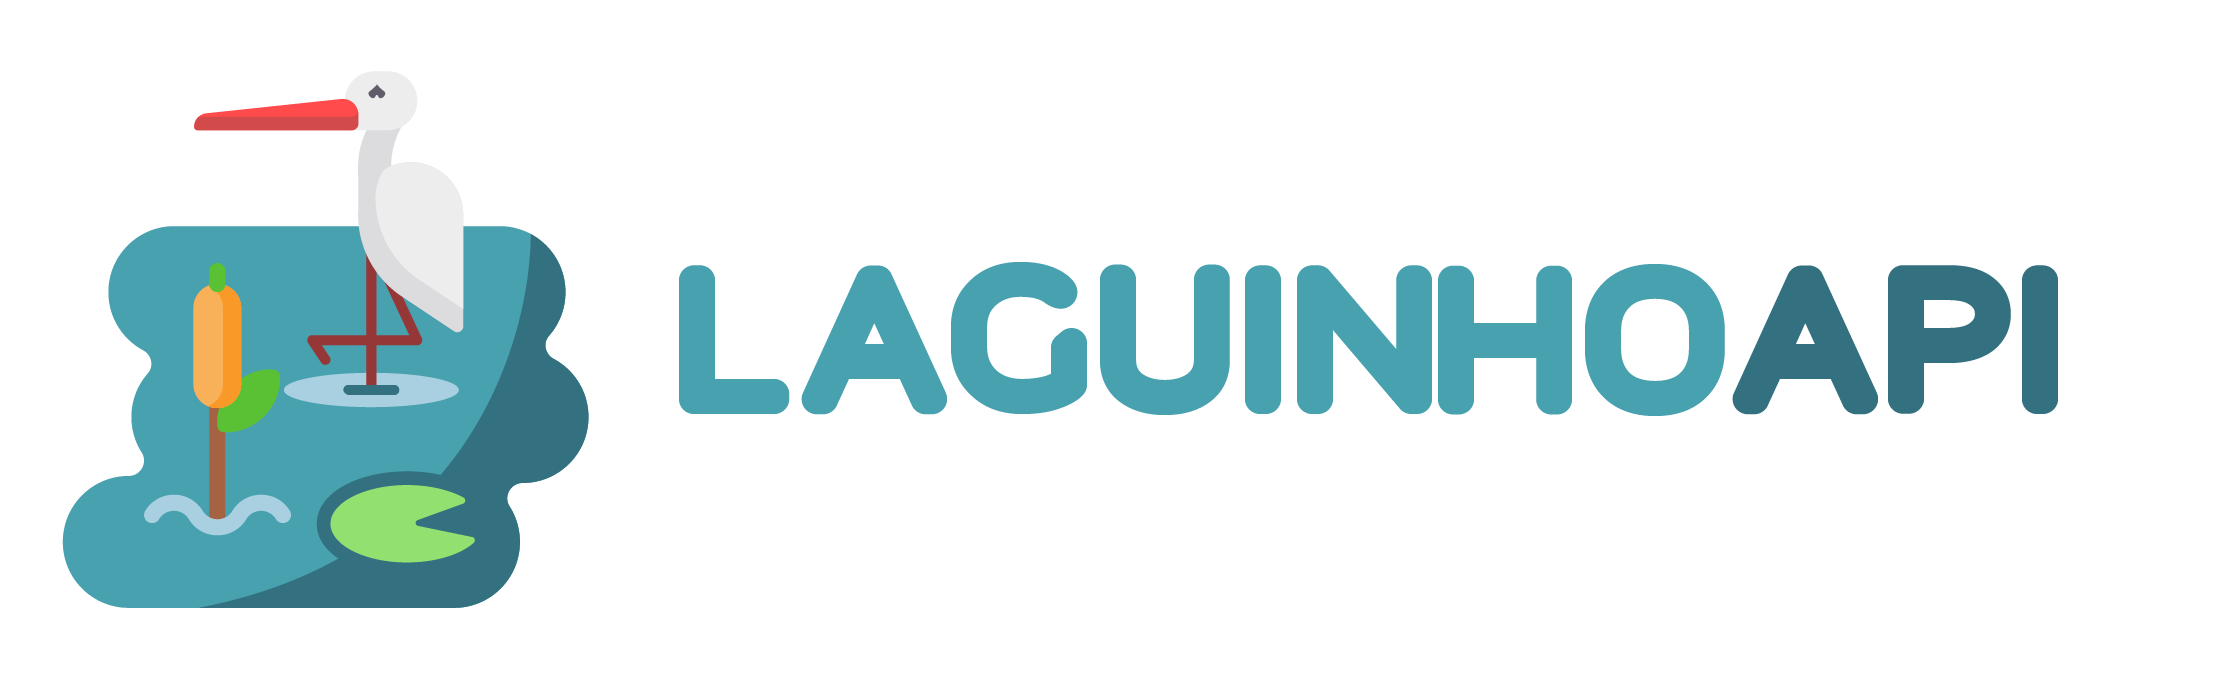
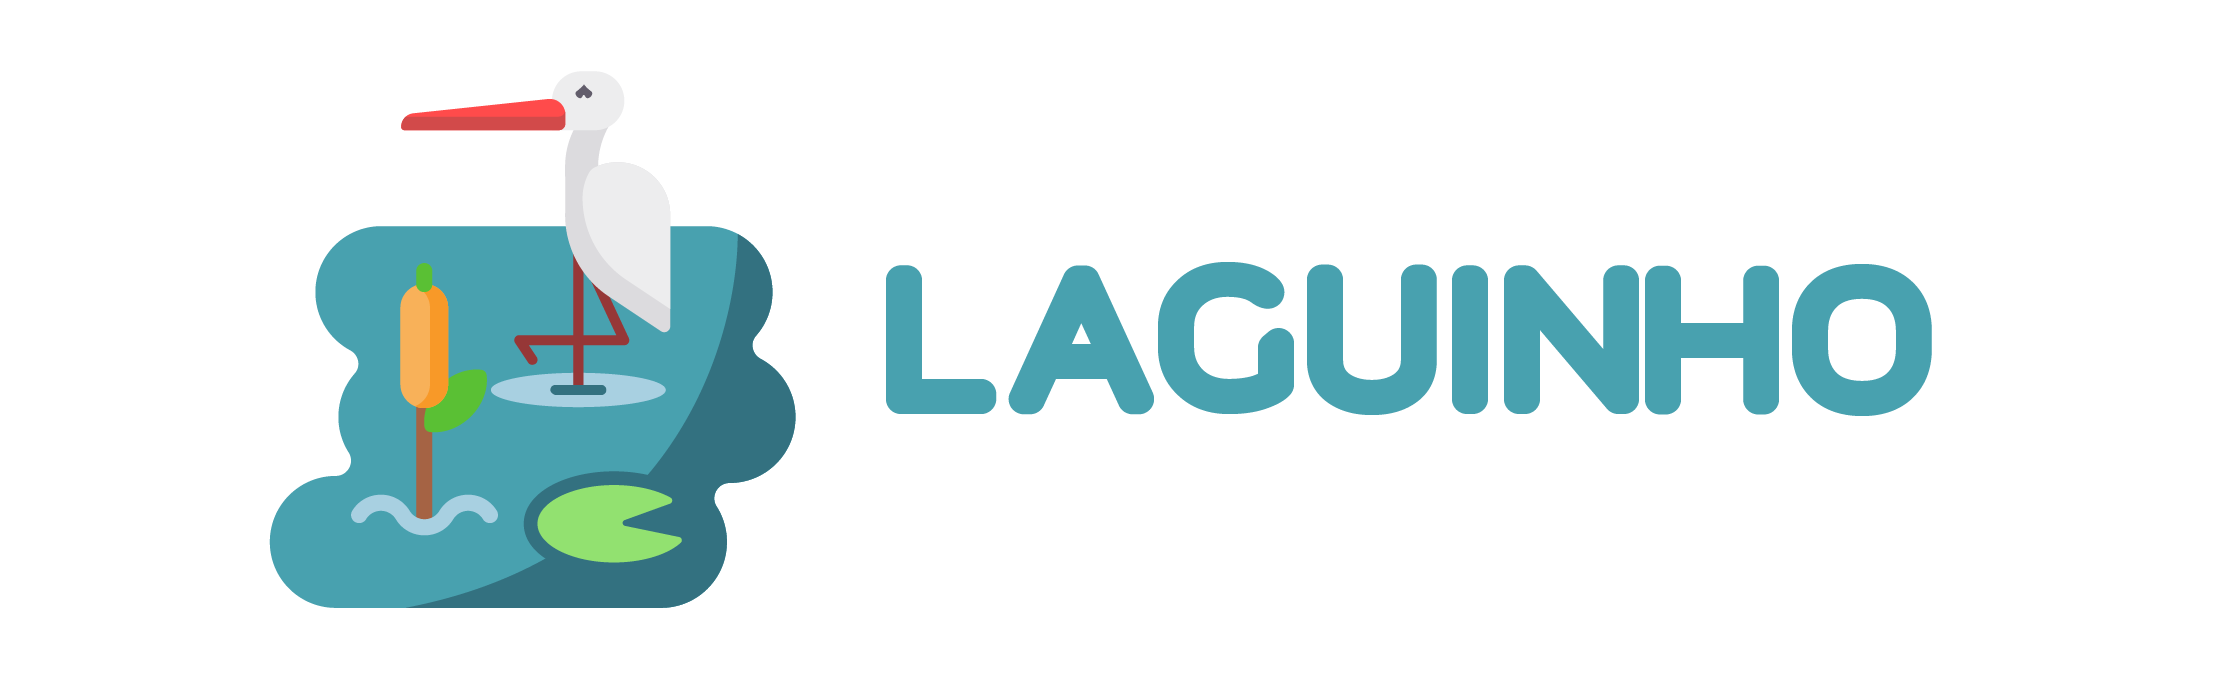
assets updated

Changed region(s): [[0.0308, 0.1237, 0.9245, 0.8969]]

diff --git a/README.md b/README.md
@@ -1,6 +1,6 @@
-# Laguinho API [![chat on Discord](https://img.shields.io/discord/558293573494112257.svg?logo=discord)](https://discord.gg/UgR5WrY)
+# Laguinho [![chat on Discord](https://img.shields.io/discord/558293573494112257.svg?logo=discord)](https://discord.gg/UgR5WrY)
 
-![LaguinhoAPI Logo](https://i.imgur.com/lgiZyDn.png)
+![Laguinho Logo](./src/assets/banner.png)
 
 Assim como o Laguinho da UFCG é (era) o ponto mais central da universidade, esta API centralizará dados para pesquisas e aplicações.
 
